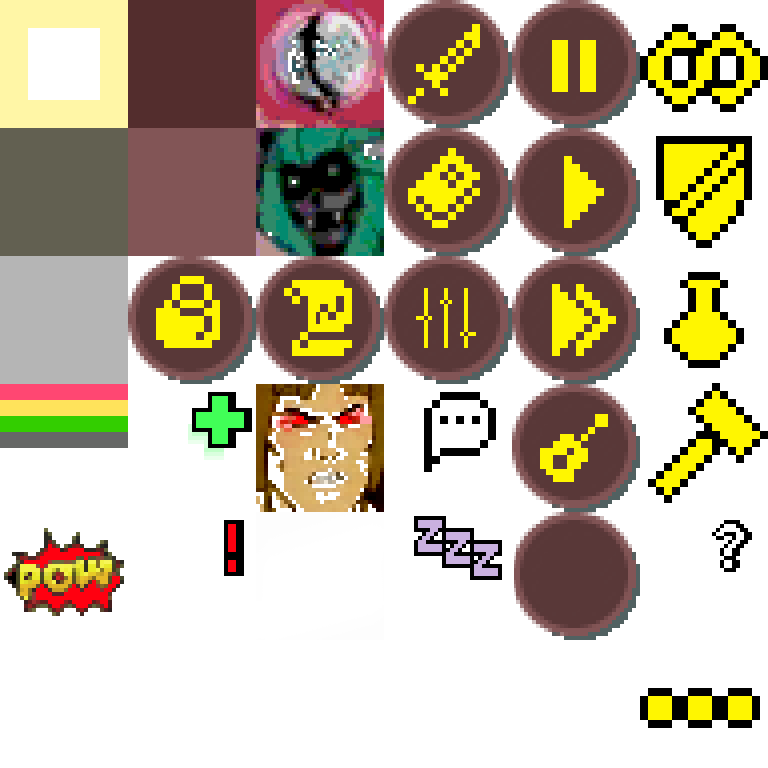
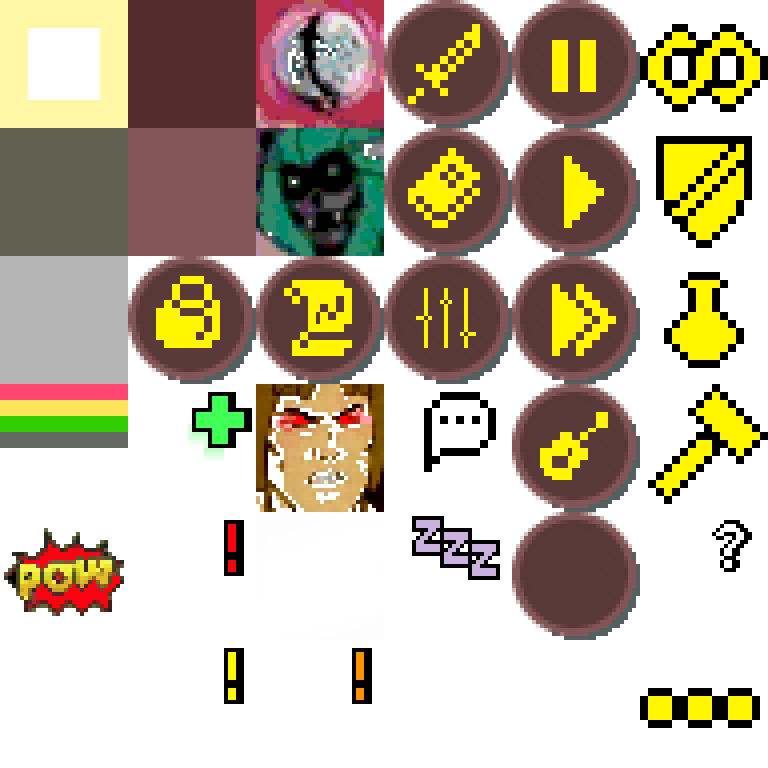
faction rework pt 1

diff --git a/src/main/kotlin/actors/NPC.kt b/src/main/kotlin/actors/NPC.kt
@@ -1,7 +1,6 @@
 package actors
 
 import actors.actions.Action
-import actors.actions.Move
 import actors.states.*
 import actors.stats.Speed
 import kotlinx.serialization.Serializable
@@ -58,7 +57,7 @@ sealed class NPC : Actor() {
     var state: State = Hibernated()
     val stateStack = Stack<State>()
 
-    var hostile = false
+    var enemies = mutableListOf<String>() // actor ids
     var metPlayer = false
     val placeMemory = mutableMapOf<String,XY>()
     @Transient var den: NPCDen? = null
@@ -82,8 +81,8 @@ sealed class NPC : Actor() {
     open fun converseLines(): List<String> = listOf()
     open fun meetPlayerMsg(): String? = null
 
-    open fun isHostile(): Boolean = hostile
-    override fun willAggro(target: Actor) = isHostile() && target is Player
+    open fun isHostileTo(target: Actor): Boolean = enemies.contains(target.id)
+    override fun willAggro(target: Actor) = isHostileTo(target)
 
     override fun visualRange() = 8f + Speed.get(this)
 
@@ -113,10 +112,13 @@ sealed class NPC : Actor() {
             changeState(Hibernated())
         } else {
             val oldState = state
+            // Statuses get a chance to change our state
             statuses.forEach { it.considerState(this) }
             if (oldState == state) {
+                // If no change, we get a chance to change our state
                 considerState()
                 if (oldState == state) {
+                    // If no change, current state gets a chance to change our state
                     state.considerState(this)
                 }
             }
@@ -171,19 +173,22 @@ sealed class NPC : Actor() {
 
     override fun drawStatusGlyphs(drawIt: (Glyph) -> Unit) {
         super.drawStatusGlyphs(drawIt)
-        if (isHostile()) drawIt(Glyph.HOSTILE_ICON)
+        state.drawStatusGlyphs(drawIt)
     }
 
     override fun examineDescription(): String {
         var d = description()
-        if (hostile) d += "  " + this.gender().ps.capitalize() + " seems very angry at you!"
+        if (isHostileTo(App.player)) d += "  " + this.gender().ps.capitalize() + " seems very angry at you!"
         return d
     }
 
     override fun receiveAggression(attacker: Actor) {
-        if (attacker is Player && !hostile) {
-            hostile = true
+        if (!isHostileTo(attacker)) {
+            enemies.add(attacker.id)
             Console.sayAct("", becomeHostileMsg(), this, attacker, null, Console.Reach.AUDIBLE)
+        }
+        factions.forEach { factionID ->
+            App.factions.byID(factionID)?.onMemberAttacked(attacker)
         }
     }
 

diff --git a/src/main/kotlin/App.kt b/src/main/kotlin/App.kt
@@ -1,5 +1,6 @@
 import actors.AttractPlayer
 import actors.Player
+import actors.factions.Factions
 import audio.Speaker
 import com.badlogic.gdx.Gdx
 import com.badlogic.gdx.InputMultiplexer
@@ -34,6 +35,7 @@ object App : KtxGame<com.badlogic.gdx.Screen>() {
     lateinit var save: SaveSlot
     var weather = Weather()
     var history = History()
+    var factions = Factions().apply { makeInitialFactions() }
 
     var time: Double = 200.0
     var gameTime: GameTime = GameTime(time)
@@ -133,6 +135,7 @@ object App : KtxGame<com.badlogic.gdx.Screen>() {
                     time = time,
                     weather = weather,
                     history = history,
+                    factions = factions,
                     consoleLines = Console.lines,
                     toolbarTags = Toolbar.getTagsForSave()
                 )
@@ -183,6 +186,7 @@ object App : KtxGame<com.badlogic.gdx.Screen>() {
             level.setPov(player.xy.x, player.xy.y)
             weather = state.weather
             history = state.history
+            factions = state.factions
             updateTime(state.time)
             Console.restoreLines(state.consoleLines)
             Toolbar.loadTagsFromSave(state.toolbarTags)

diff --git a/src/main/kotlin/actors/Actor.kt b/src/main/kotlin/actors/Actor.kt
@@ -47,6 +47,12 @@ sealed class Actor : Entity, ThingHolder, LightSource, Temporal {
     val stats = mutableMapOf<Stat.Tag, Stat.Value>()
     val statuses = mutableListOf<Status>()
 
+    open fun initialFactions() = mutableSetOf<String>().apply {
+        if (isHuman()) add(App.factions.humans)
+        if (isMonster()) add(App.factions.monsters)
+    }
+    val factions = initialFactions()
+
     @Transient val queuedActions: MutableList<Action> = mutableListOf()
 
     @Transient var seen = mutableMapOf<Entity, Float>()
@@ -74,7 +80,8 @@ sealed class Actor : Entity, ThingHolder, LightSource, Temporal {
         }
 
     open fun isSentient() = true
-    open fun isHuman() = true
+    open fun isHuman() = false
+    open fun isMonster() = false
     open fun canOpenDoors() = isHuman()
     open fun canWalkOn(terrain: Terrain) = true
     open fun canSwimShallow() = false
@@ -572,6 +579,10 @@ sealed class Actor : Entity, ThingHolder, LightSource, Temporal {
             val ty = xy.y + dir.y
             doThis(tx, ty, dir)
         }
+    }
+
+    fun joinFaction(factionID: String) {
+        factions.add(factionID)
     }
 
 }

diff --git a/src/main/kotlin/actors/states/Idle.kt b/src/main/kotlin/actors/states/Idle.kt
@@ -4,14 +4,12 @@ import App
 import actors.NPC
 import actors.actions.Action
 import actors.actions.Move
-import actors.actions.Sleep
 import actors.actions.Wait
-import actors.statuses.Status
 import audio.Speaker
 import kotlinx.serialization.Serializable
+import render.sparks.Speak
 import ui.panels.Console
 import util.*
-import world.journal.GameTime
 
 @Serializable
 sealed class Idle : State() {
@@ -34,13 +32,14 @@ sealed class Idle : State() {
         val canSeePlayer = npc.canSee(App.player)
         if (canSeePlayer && !npc.metPlayer) {
             npc.meetPlayerMsg()?.also {
-                Console.say(it)
+                Console.sayAct("", "%Dn says, \"$it\"", npc)
                 npc.talkSound(App.player)?.also { Speaker.world(it, source = npc.xy())}
+                npc.level?.addSpark(Speak().at(npc.xy.x, npc.xy.y))
             }
             npc.metPlayer = true
         }
 
-        if (npc.isHostile() && canSeePlayer) {
+        if (npc.isHostileTo(App.player) && canSeePlayer) {
             npc.changeState(npc.hostileResponseState(App.player.id))
         }
     }

diff --git a/src/main/kotlin/world/gen/features/Village.kt b/src/main/kotlin/world/gen/features/Village.kt
@@ -1,6 +1,8 @@
 package world.gen.features
 
 import actors.VillageGuard
+import actors.factions.Faction
+import actors.factions.VillageFaction
 import kotlinx.serialization.Serializable
 import kotlinx.serialization.Transient
 import render.tilesets.Glyph
@@ -62,6 +64,8 @@ class Village(
         StorageShed(),
     )
 
+    val factionID = App.factions.addFaction(VillageFaction(name))
+
     override fun cellTitle() = if (isAbandoned) "abandoned village" else name
 
     override fun trailDestinationChance() = 1f
@@ -113,9 +117,11 @@ class Village(
 
     private fun spawnGuards() {
         val numGuards = 1.coerceAtLeast((size / 4))
-        val bounds = Rect(x0, y0, x1, y1)
+        val bounds = Rect(x0 + 4, y0 + 4, x1 - 4, y1 - 4)
         repeat (numGuards) {
-            val guard = VillageGuard(bounds)
+            val guard = VillageGuard(bounds, name).apply {
+                joinFaction(factionID)
+            }
             findSpawnPointForNPC(chunk, guard, bounds)?.also { spawnPoint ->
                 guard.spawnAt(App.level, spawnPoint.x, spawnPoint.y)
             }

diff --git a/src/main/kotlin/actors/Player.kt b/src/main/kotlin/actors/Player.kt
@@ -39,6 +39,8 @@ open class Player : Actor() {
     override fun dname() = name()
     override fun iname() = name()
 
+    override fun initialFactions() = mutableSetOf(App.factions.humans)
+
     override fun visualRange() = 40f
     override fun hasActionJuice() = queuedActions.isNotEmpty()
     override fun wantsToAct() = true
@@ -187,7 +189,7 @@ open class Player : Actor() {
     // Is it safe to do auto-actions like auto-pickup, shift-move, etc?
     // If we can see hostiles, it's not safe.
     fun isAutoActionSafe(): Boolean {
-        if (entitiesSeen { it is NPC && it.isHostile() }.isNotEmpty()) {
+        if (entitiesSeen { it is NPC && it.isHostileTo(this) }.isNotEmpty()) {
             return false
         }
         return true

diff --git a/src/main/kotlin/actors/factions/Faction.kt b/src/main/kotlin/actors/factions/Faction.kt
@@ -1,0 +1,31 @@
+package actors.factions
+
+import actors.Actor
+import kotlinx.serialization.Serializable
+import util.UUID
+import util.log
+
+@Serializable
+open class Faction(
+    val name: String,
+) {
+
+    val id = UUID()
+
+    val hatedActors = mutableSetOf<String>()
+
+    // Should the faction hate someone who attacks a member?
+    open fun hateMemberAttacker() = false
+
+    fun onMemberAttacked(attacker: Actor) {
+        if (hateMemberAttacker()) {
+            hateActor(attacker)
+        }
+    }
+
+    fun hateActor(actor: Actor) {
+        log.info("faction $this ($id) now hates $actor (${actor.id})")
+        hatedActors.add(actor.id)
+    }
+
+}

diff --git a/src/main/kotlin/actors/factions/Factions.kt b/src/main/kotlin/actors/factions/Factions.kt
@@ -1,0 +1,28 @@
+package actors.factions
+
+import kotlinx.serialization.Serializable
+
+@Serializable
+class Factions {
+
+    private val factions: MutableMap<String, Faction> = mutableMapOf()
+
+    var humans: String = ""
+    var monsters: String = ""
+
+    fun makeInitialFactions() {
+        humans = addFaction(Humans())
+        monsters = addFaction(Monsters())
+    }
+
+    fun addFaction(newFaction: Faction): String {
+        factions[newFaction.id] = newFaction
+        return newFaction.id
+    }
+
+    fun byID(id: String): Faction? {
+        if (factions.containsKey(id)) return factions[id]
+        return null
+    }
+
+}

diff --git a/src/main/kotlin/actors/VillageGuard.kt b/src/main/kotlin/actors/VillageGuard.kt
@@ -14,6 +14,7 @@ import util.Rect
 @Serializable
 class VillageGuard(
     val bounds: Rect,
+    val villageName: String,
 ) : NPC() {
     override fun name() = "guard"
     override fun glyph() = Glyph.SHIELD_GUARD
@@ -30,6 +31,13 @@ class VillageGuard(
         bounds
     )
     override fun canSwimShallow() = true
+
+    override fun meetPlayerMsg() = listOf(
+        "Hail traveller.",
+        "Watch yourself, barbarian.",
+        "Welcome to $villageName.",
+        "$villageName is a peaceful town."
+    ).random()
 
     private val lantern = LightColor(0.5f, 0.4f, 0.0f)
     private val lightStartHour = 20

diff --git a/src/main/kotlin/actors/states/Attacking.kt b/src/main/kotlin/actors/states/Attacking.kt
@@ -4,6 +4,7 @@ import actors.NPC
 import actors.actions.Action
 import actors.actions.Attack
 import kotlinx.serialization.Serializable
+import render.tilesets.Glyph
 import util.XY
 
 @Serializable
@@ -30,5 +31,13 @@ class Attacking(
             }
         }
         return super.pickAction(npc)
+    }
+
+    override fun drawStatusGlyphs(drawIt: (Glyph) -> Unit) {
+        if (targetId == App.player.id) {
+            drawIt(Glyph.HOSTILE_ICON)
+        } else {
+            drawIt(Glyph.HOSTILE_OTHER_ICON)
+        }
     }
 }

diff --git a/src/main/kotlin/render/tilesets/UITileSet.kt b/src/main/kotlin/render/tilesets/UITileSet.kt
@@ -28,6 +28,8 @@ fun UITileSet() =
         setTile(Glyph.SPEECH_BUBBLE, SimpleTile(this, 3, 3))
         setTile(Glyph.POW_ICON, SimpleTile(this, 0, 4))
         setTile(Glyph.HOSTILE_ICON, SimpleTile(this, 1, 4))
+        setTile(Glyph.HOSTILE_OTHER_ICON, SimpleTile(this, 2, 5))
+        setTile(Glyph.FLEEING_ICON, SimpleTile(this, 1, 5))
         setTile(Glyph.WINDOW_SHADE, SimpleTile(this, 2, 4))
         setTile(Glyph.QUESTION_ICON, SimpleTile(this, 5, 4))
         setTile(Glyph.INVENTORY_ALL, SimpleTile(this, 5, 0))

diff --git a/src/main/kotlin/actors/AttractPlayer.kt b/src/main/kotlin/actors/AttractPlayer.kt
@@ -167,7 +167,7 @@ class AttractPlayer : Player() {
 
                 // talk or fight or grab nearby stuff
                 entitiesNextToUs().forEach { entity ->
-                    if (entity is NPC && entity.isHostile()) {
+                    if (entity is NPC && entity.isHostileTo(this)) {
                         return Attack(entity as Actor, XY(entity.xy()!!.x - xy.x, entity.xy()!!.y - xy.y))
                     }
                     if (entity is Aurox || entity is MuskOx) {
